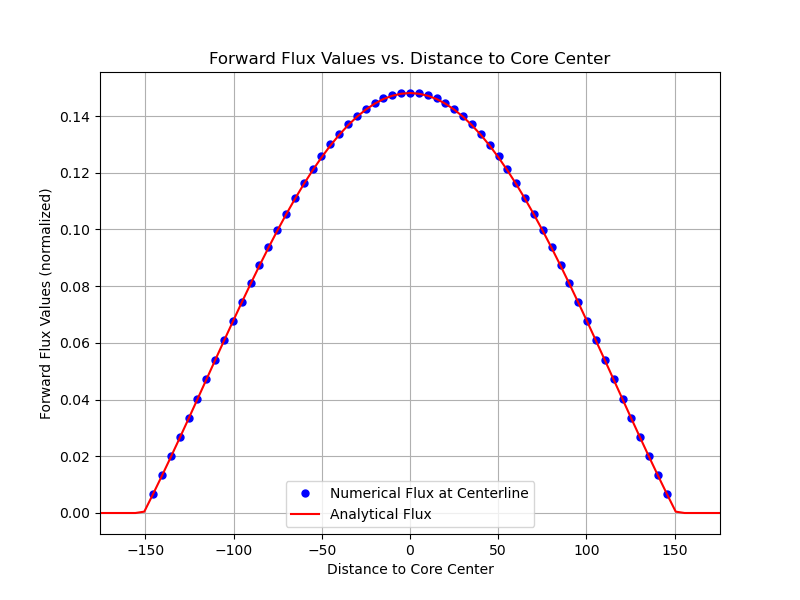
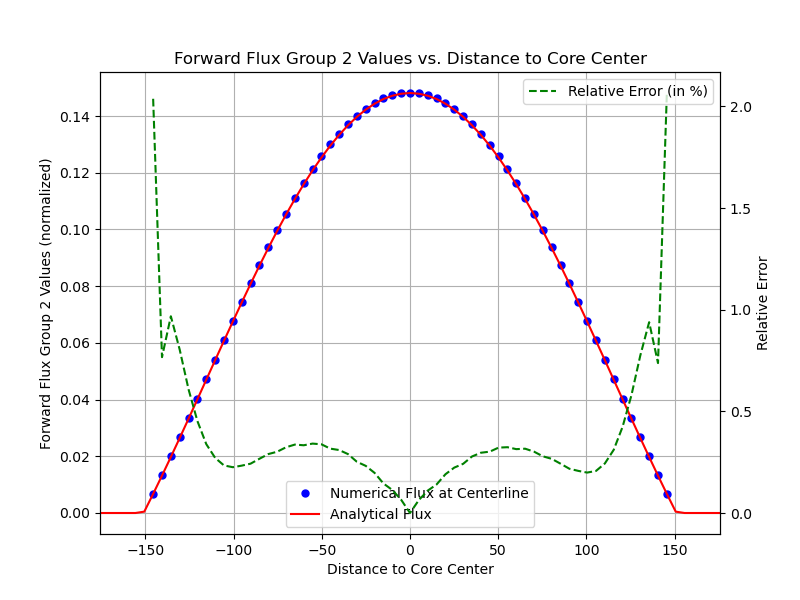
edit comparison of analytical solutions

diff --git a/OUTPUTS/OBJECTIVES1_TEST04_2DTriMG_HOMOG_VandV/OBJECTIVES1_TEST04_2DTriMG_HOMOG_VandV_level1_NOISE/comparison.py b/OUTPUTS/OBJECTIVES1_TEST04_2DTriMG_HOMOG_VandV/OBJECTIVES1_TEST04_2DTriMG_HOMOG_VandV_level1_NOISE/comparison.py
@@ -150,32 +150,57 @@ def plot_1D_distance_to_core(PHIg, FLXg, h, I_max, J_max, g, level, varname=None
     # Create an array for analytical flux values corresponding to unique distances
     analytical_flux_values = np.interp(unique_distances, r, FLXg)  # Use linear interpolation to match distances    
 
-    # Plot distance vs max flux values
-    plt.figure(figsize=(8, 6))
-    plt.plot(unique_distances, flux_values, 'bo', markersize=5, label='Numerical Flux at Centerline')
-
-    # Plot analytical flux values
     # Initialize empty lists to store distances and flux values within the range [-150, 150]
     filtered_distances = []
     filtered_flux_values = []
 
-    # Iterate over the unique distances and corresponding flux values
-    for i, d in enumerate(unique_distances):
-        if -150 <= d <= 150:  # Check if the distance is within the range [-150, 150]
-            filtered_distances.append(d)  # Save the distance to the filtered list
-            filtered_flux_values.append(analytical_flux_values[i])  # Save the corresponding flux value
+#    # Iterate over the unique distances and corresponding flux values
+#    for i, d in enumerate(unique_distances):
+#        if -150 <= d <= 150:  # Check if the distance is within the range [-150, 150]
+#            filtered_distances.append(d)  # Save the distance to the filtered list
+#            filtered_flux_values.append(analytical_flux_values[i])  # Save the corresponding flux value
 
-    plt.plot(filtered_distances, filtered_flux_values, 'r-', label='Analytical Flux')
+#    # Plot distance vs max flux values
+#    plt.figure(figsize=(8, 6))
+#    plt.plot(unique_distances, flux_values, 'bo', markersize=5, label='Numerical Flux at Centerline')
+#    plt.plot(filtered_distances, filtered_flux_values, 'r-', label='Analytical Flux')
+#
+#    plt.xlabel('Distance to Core Center')
+#    plt.ylabel(f'{process_data} dPHI Values (normalized)')
+#    plt.title(f'Group {g} {process_data} dPHI Values vs. Distance to Core Center')
+#
+#    # Set axis limits from -radius to radius
+#    plt.xlim(-150, 150)
+#    plt.grid(True)
+#    plt.legend()
+#    plt.savefig(f'Verification_{varname}_{process_data}_G{g}.png')
 
-    plt.xlabel('Distance to Core Center')
-    plt.ylabel(f'{process_data} dPHI Values (normalized)')
-    plt.title(f'Group {g} {process_data} dPHI Values vs. Distance to Core Center')
+    # Calculate relative error
+    relative_error = np.abs(np.array(flux_values) - np.array(analytical_flux_values)) / np.array(analytical_flux_values) * 100
 
-    # Set axis limits from -radius to radius
-    plt.xlim(-150, 150)
-    plt.grid(True)
-    plt.legend()
+    # Plot distance vs max flux values
+    fig, ax1 = plt.subplots(figsize=(8, 6))
+
+    # Plot primary y-axis (left)
+    ax1.plot(unique_distances, flux_values, 'bo', markersize=5, label='Numerical Flux at Centerline')
+    ax1.plot(unique_distances, analytical_flux_values, 'r-', label='Analytical Flux')
+    ax1.set_xlabel('Distance to Core Center')
+    ax1.set_ylabel(f'{process_data} dPHI Group {g} Values (normalized)')
+    ax1.set_title(f'Group {g} {process_data} dPHI Values vs. Distance to Core Center')
+    ax1.set_xlim(-150, 150)
+    ax1.grid(True)
+    ax1.legend(loc='best')
+
+    # Create secondary y-axis (right) for relative error
+    ax2 = ax1.twinx()
+    ax2.plot(unique_distances, relative_error, 'g--', label='Relative Error (in %)')
+    ax2.set_ylabel('Relative Error')
+    ax2.legend(loc='best')
+
+    # Save the figure
     plt.savefig(f'Verification_{varname}_{process_data}_G{g}.png')
+
+
 #    plt.show()
 
 #*************************************************************************************

diff --git a/OUTPUTS/OBJECTIVES1_TEST04_2DTriMG_HOMOG_VandV/OBJECTIVES1_TEST04_2DTriMG_HOMOG_VandV_level1_ADJOINT/comparison.py b/OUTPUTS/OBJECTIVES1_TEST04_2DTriMG_HOMOG_VandV/OBJECTIVES1_TEST04_2DTriMG_HOMOG_VandV_level1_ADJOINT/comparison.py
@@ -140,22 +140,48 @@ def plot_1D_distance_to_core(PHIg, FLXg, h, I_max, J_max, g, level, varname=None
     # Create an array for analytical flux values corresponding to unique distances
     analytical_flux_values = np.interp(unique_distances, r, FLXg)  # Use linear interpolation to match distances    
 
+#    # Plot distance vs max flux values
+#    plt.figure(figsize=(8, 6))
+#    plt.plot(unique_distances, flux_values, 'bo', markersize=5, label='Numerical Flux at Centerline')
+#
+#    # Plot analytical flux values
+#    plt.plot(unique_distances, analytical_flux_values, 'r-', label='Analytical Flux')  # Add this line
+#
+#    plt.xlabel('Distance to Core Center')
+#    plt.ylabel('Adjoint Flux Values (normalized)')
+#    plt.title('Adjoint Flux Values vs. Distance to Core Center')
+#
+#    # Set axis limits from -radius to radius
+#    plt.xlim(-max_distance, max_distance)
+#    plt.grid(True)
+#    plt.legend()
+#    plt.savefig(f'Verification_{varname}_{process_data}_G{g}.png')
+
+    # Calculate relative error
+    relative_error = np.abs(np.array(flux_values) - np.array(analytical_flux_values)) / np.array(analytical_flux_values) * 100
+
     # Plot distance vs max flux values
-    plt.figure(figsize=(8, 6))
-    plt.plot(unique_distances, flux_values, 'bo', markersize=5, label='Numerical Flux at Centerline')
+    fig, ax1 = plt.subplots(figsize=(8, 6))
 
-    # Plot analytical flux values
-    plt.plot(unique_distances, analytical_flux_values, 'r-', label='Analytical Flux')  # Add this line
+    # Plot primary y-axis (left)
+    ax1.plot(unique_distances, flux_values, 'bo', markersize=5, label='Numerical Flux at Centerline')
+    ax1.plot(unique_distances, analytical_flux_values, 'r-', label='Analytical Flux')
+    ax1.set_xlabel('Distance to Core Center')
+    ax1.set_ylabel(f'Adjoint Flux Group {g} Values (normalized)')
+    ax1.set_title(f'Adjoint Flux Group {g} Values vs. Distance to Core Center')
+    ax1.set_xlim(-max_distance, max_distance)
+    ax1.grid(True)
+    ax1.legend(loc='best')
 
-    plt.xlabel('Distance to Core Center')
-    plt.ylabel('Adjoint Flux Values (normalized)')
-    plt.title('Adjoint Flux Values vs. Distance to Core Center')
+    # Create secondary y-axis (right) for relative error
+    ax2 = ax1.twinx()
+    ax2.plot(unique_distances, relative_error, 'g--', label='Relative Error (in %)')
+    ax2.set_ylabel('Relative Error')
+    ax2.legend(loc='upper right')
 
-    # Set axis limits from -radius to radius
-    plt.xlim(-max_distance, max_distance)
-    plt.grid(True)
-    plt.legend()
+    # Save the figure
     plt.savefig(f'Verification_{varname}_{process_data}_G{g}.png')
+
 #    plt.show()
 
 #*************************************************************************************

diff --git a/OUTPUTS/OBJECTIVES1_TEST04_2DTriMG_HOMOG_VandV/OBJECTIVES1_TEST04_2DTriMG_HOMOG_VandV_level1_FORWARD/comparison.py b/OUTPUTS/OBJECTIVES1_TEST04_2DTriMG_HOMOG_VandV/OBJECTIVES1_TEST04_2DTriMG_HOMOG_VandV_level1_FORWARD/comparison.py
@@ -158,7 +158,7 @@ def plot_1D_distance_to_core(PHIg, FLXg, h, I_max, J_max, g, level, varname=None
 #    plt.savefig(f'Verification_{varname}_{process_data}_G{g}.png')
 
     # Calculate relative error
-    relative_error = np.abs(np.array(flux_values) - np.array(analytical_flux_values)) / np.array(analytical_flux_values)
+    relative_error = np.abs(np.array(flux_values) - np.array(analytical_flux_values)) / np.array(analytical_flux_values) * 100
 
     # Plot distance vs max flux values
     fig, ax1 = plt.subplots(figsize=(8, 6))
@@ -167,15 +167,15 @@ def plot_1D_distance_to_core(PHIg, FLXg, h, I_max, J_max, g, level, varname=None
     ax1.plot(unique_distances, flux_values, 'bo', markersize=5, label='Numerical Flux at Centerline')
     ax1.plot(unique_distances, analytical_flux_values, 'r-', label='Analytical Flux')
     ax1.set_xlabel('Distance to Core Center')
-    ax1.set_ylabel(f'Forward Flux Group {g+1} Values (normalized)')
-    ax1.set_title(f'Forward Flux Group {g+1} Values vs. Distance to Core Center')
+    ax1.set_ylabel(f'Forward Flux Group {g} Values (normalized)')
+    ax1.set_title(f'Forward Flux Group {g} Values vs. Distance to Core Center')
     ax1.set_xlim(-max_distance, max_distance)
     ax1.grid(True)
-    ax1.legend()
+    ax1.legend(loc='best')
 
     # Create secondary y-axis (right) for relative error
     ax2 = ax1.twinx()
-    ax2.plot(unique_distances, relative_error, 'g--', label='Relative Error')
+    ax2.plot(unique_distances, relative_error, 'g--', label='Relative Error (in %)')
     ax2.set_ylabel('Relative Error')
     ax2.legend(loc='upper right')
 
